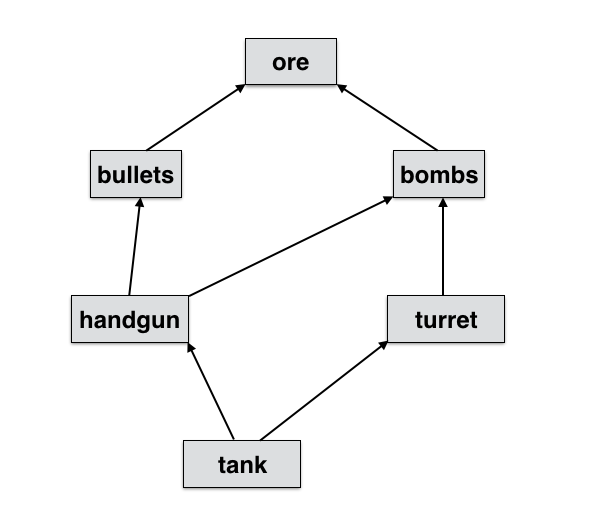
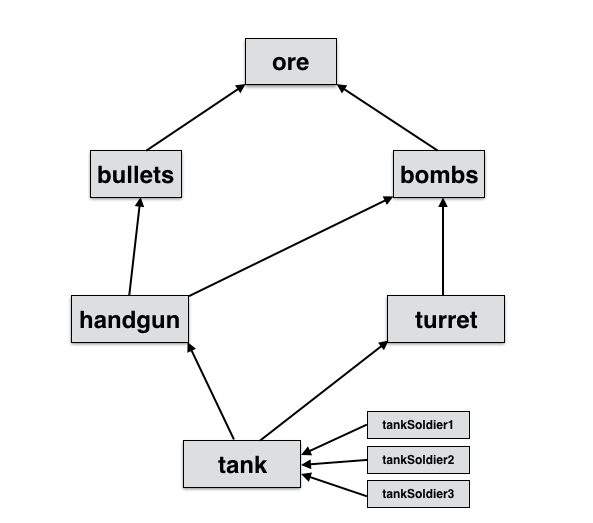
TEST-CODE inprovements
-> Now, it is much more rigorous structure to test operations on.

-> Improvements in cout of delete method!

->Updated “TEST-CODE Example.png” accordingly.

Changed region(s): [[0.4857, 0.7648, 0.8196, 0.979]]

diff --git a/Assignment 1/Classes/Node.cpp b/Assignment 1/Classes/Node.cpp
@@ -110,16 +110,16 @@ using namespace std;
       // For every base nodes of the currentChild
       for(int cb = currentChild->baseNode.size(); cb>=1; cb--) {
         Node * cbNode = currentChild->baseNode[cb-1];
-        cout<<"Currently in: "<<cbNode->name<<endl;
+        cout<<"  Currently in: "<<cbNode->name<<endl;
 
         // For its every childNode
         for(int cbc = cbNode->childNode.size(); cbc>= 1; cbc--) {
         Node *cbcNode = cbNode->childNode[cbc-1];
-        cout<<"  On: "<<cbcNode->name<<endl;
+        cout<<"    On: "<<cbcNode->name<<endl;
 
         // Find reference of currentChild Node
         if(cbcNode->name == nameOfChild) {
-          cout<<"     Found: "<< nameOfChild<<"; removing its reference!"<<endl;
+          cout<<"       Found: "<< nameOfChild<<"; removing its reference!"<<endl;
 
           // Remove its reference
           cbNode->childNode.erase(cbNode->childNode.begin() + cbc-1);
@@ -127,7 +127,7 @@ using namespace std;
           // if this cbNode was the only last one left,
           // delete currentChild Node, also.
           if(cb == 1) {
-            cout<<"========= All references of "<<nameOfChild<<" removed! Now, deleting node itself!!"<<endl;
+            cout<<"  ========= All references of "<<nameOfChild<<" removed! Now, deleting node itself!!"<<endl;
             delete cbcNode;
             }
           break;

diff --git a/Assignment 1/main.cpp b/Assignment 1/main.cpp
@@ -71,6 +71,18 @@ int main(int argc, char const *argv[]) {
   handgun->addChildNode(tank);
   turret->addChildNode(tank);
 
+  Node *tankSoldier1 = new Node;
+  tankSoldier1->name = "tankSoldier1";
+  tank->addChildNode(tankSoldier1);
+
+  Node *tankSoldier2 = new Node;
+  tankSoldier2->name = "tankSoldier2";
+  tank->addChildNode(tankSoldier2);
+
+  Node *tankSoldier3 = new Node;
+  tankSoldier3->name = "tankSoldier3";
+  tank->addChildNode(tankSoldier3);
+
   bullets->description();
   ore->description();
 
@@ -149,6 +161,18 @@ void displayStructureOfNodesInVector(vector<Node *> baseNodes) {
    tank->name = "tank";
    handgun->addChildNode(tank);
    turret->addChildNode(tank);
+
+   Node *tankSoldier1 = new Node;
+   tankSoldier1->name = "tankSoldier1";
+   tank->addChildNode(tankSoldier1);
+
+   Node *tankSoldier2 = new Node;
+   tankSoldier2->name = "tankSoldier2";
+   tank->addChildNode(tankSoldier2);
+
+   Node *tankSoldier3 = new Node;
+   tankSoldier3->name = "tankSoldier3";
+   tank->addChildNode(tankSoldier3);
 
    bullets->description();
    ore->description();

diff --git a/Assignment 1/Classes/ResourceManager.h b/Assignment 1/Classes/ResourceManager.h
@@ -16,12 +16,20 @@ class ResourceManager {
   public:
     ResourceManager();
 
-    // Don't forget to make it private
+    // Don't forget to make it private, later on
     vector<Node *> independentBaseNodes;
 
+    // Deletes all childern of nodes as well as it self
+    // Also removes references from independentBaseNodes variable
     void deleteAllIndependentBaseNodesSafely();
-    void addBaseAndChildNodesFromStringsToGame(string childName, string baseName);
+
+    // Implement graph seach algorithm
+    // It will be used before addition of any Node into the system
+    // To keep the whole structure without any redundancy
     Node* searchForNode(string nodeName);
+
+    void addBaseAndChildNodesFromStringsToGame(string childName, string baseName);
+
 
   private:
 };
